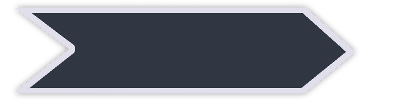
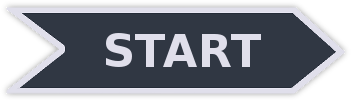
work on startpagedesign

diff --git a/css/startpage.css b/css/startpage.css
@@ -24,7 +24,7 @@ height: 50px;
   border-bottom-right-radius: 50px;
   border-right: 8px solid #e0dfeb;
   border-bottom: 8px solid #e0dfeb;
-  box-shadow: 0px 0px 15px #444444;
+  box-shadow: 0px 0px 5px #444444;
 
   background: #303743;
   background-image: url('../img/info.png');
@@ -34,7 +34,7 @@ height: 50px;
 }
 
 #_infoButton:hover{
-  background: #e0dfeb;
+  background: #546075;
   background-image: url('../img/info.png');
   background-size: 40%;
   background-repeat: no-repeat;
@@ -49,7 +49,7 @@ a, a:visited{
 }
 
 a:hover{
-  color: #e0dfeb;
+  color: #546075;
   font-weight: bold;
   font-size: 20px;
   text-decoration: none;
@@ -75,37 +75,42 @@ Content style
 }
 
 #_content p{
-  font-size: 30px;
+  font-size: 25px;
+  text-shadow: 1px 1px 0px #C0C0C0;
 }
 
 #_content h1{
-  font-size: 40px;
+  font-size: 30px;
+  text-shadow: 1px 1px 0px #C0C0C0;
 }
 
 #_startInfo{
   position: absolute;
   width: 700px;
-  margin-top: 10%;
+  margin-top: 50px;
   margin-left: 50%;
   left: -350px;
 }
 
-#_startButton a{
-  font-size: 50px;
-}
-
+/*
+Startbutton
+*/
 #_startButton{
   position: absolute;
   width: 380px;
   height: 100px;
-  text-align: center;
-  padding-top: 20px;
 
   background-image: url('../img/startbutton.png');
+  background-size: 100% 100%;
   background-repeat: no-repeat;
-  margin-top: 40%;
+  margin-top: 50%;
+  top: -50px;
   margin-left: 50%;
   left: -200px;
+}
+
+#_startButton:hover{
+  background-image: url('../img/startbutton_hover.png');
 }
 
 /*
@@ -114,8 +119,9 @@ Footer style
 footer{
   position: absolute;
   width: 100%;
-  height: 50px;
   bottom: 0px;
+  padding: 5px;
 
-  background: rgba(0,0,0,0.5);
+  background: #C0C0C0;
+  color: #303743;
 }

diff --git a/index.html b/index.html
@@ -39,7 +39,7 @@
       {{outlet}}
     </div>
 
-    <footer>Footer</footer>
+    <footer>Copyright by F.J.Brünner, L.Wanko, M.Tiefenthaler and the University of Applied Sciences in Salzburg</footer>
     
   </script>
   
@@ -47,9 +47,13 @@
   <!-- views -->
   
   <script type="text/x-handlebars" data-template-name="startpage">
-    <div id="_startButton"><a href="#" {{action "setUpChatroom" target="App.router.startpageController"}}>START</a></div>
+
+    		<a href="#" {{action "setUpChatroom" target="App.router.startpageController"}}>
+    			<div id="_startButton"></div>
+    		</a>
+    
    // toolbox zum testen, soll dann nur mehr im chatroomtemplate sein
-   <div id="_tooltip">Ihr Browser fragt sie ob er Zugriff auf ihre Kamera bekommt. Um Videochatten zu können musst du das mit <strong>allow</strong> bestätigen!</div><div id="_tooltipArrow"></div>
+   <div id="_tooltip">Dein Browser fragt dich ob er Zugriff auf deine Webcam bekommt. Um Videochatten zu können musst du das mit <strong>allow</strong> bestätigen!</div><div id="_tooltipArrow"></div>
   </script>
   
   

diff --git a/css/chatroom.css b/css/chatroom.css
@@ -8,7 +8,7 @@
 	font-size: 15px;
 
 	padding: 16px;
-	border: 2px solid black;
+	border: 2px solid #303743;
 	border-radius: 10px;
 	background: #e0dfeb;
 }
@@ -21,7 +21,7 @@
 	width: 20px;
 	height: 20px;
 	margin-left: 50%;
-	left: -10px;
+	left: -8px;
 
 	background: #e0dfeb;
 
